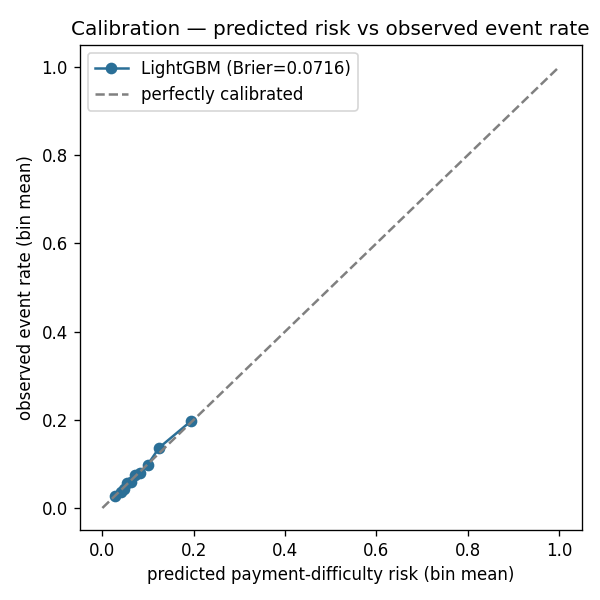
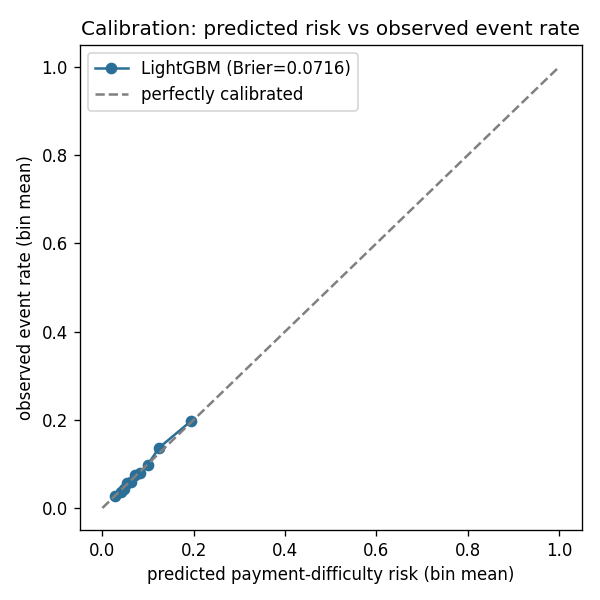
plain-language pass over reports, docs and comments
Replaced em dashes and semicolons with full stops or plain connectives, and
turned the bold-label lists in the challenger, IFRS 9 and monitoring reports
into tables, since they are key-to-value data. Edits to generated reports were
made in their generators, then the reports were rebuilt: challenger and
monitoring from their committed JSON, the rest from their normal entry points.
Every number in every changed report is identical to the previous version, and
all JSON outputs, model artifacts and figures are byte-identical except the
calibration chart, which was redrawn for its new title (Brier still 0.0716).

model_comparison.md is written at the end of training, so its one-sentence
change was applied by hand to avoid retraining, and checked against the
generator's output.

Changed region(s): [[0.12, 0.03, 0.99, 0.06]]

diff --git a/src/validation_report.py b/src/validation_report.py
@@ -59,7 +59,7 @@ def build_validation_report(
     challenger_result = (
         f"Candidate **{nomination}** was nominated for a separate promotion review."
         if nomination
-        else "No candidate passed every predeclared gate; the incumbent remains preferred."
+        else "No candidate passed every predeclared gate, so the incumbent remains preferred."
     )
     rejected = sum(not candidate.get("accepted", False) for candidate in candidates)
     split_rows = metadata.get("split_rows", {})
@@ -84,8 +84,9 @@ def build_validation_report(
         "## 3. Data and split protocol",
         "",
         "The work uses the historical Kaggle Home Credit application dataset with a deterministic "
-        "60/20/20 stratified split (seed 42). Candidate selection uses development-only out-of-fold "
-        "predictions; the frozen test fold is not used to choose or promote a challenger.",
+        "60/20/20 stratified split (seed 42). Candidate selection uses out-of-fold predictions from "
+        "development data only. The frozen test fold is never used to choose or promote a "
+        "challenger.",
         "",
         f"- Train rows: **{split_rows.get('train', 'not recorded')}**",
         f"- Validation rows: **{split_rows.get('validation', 'not recorded')}**",
@@ -105,7 +106,7 @@ def build_validation_report(
         "## 5. Development-only challenger evidence and gate outcome",
         "",
         f"- Data scope: **{data_scope}**",
-        f"- Candidates evaluated: **{len(candidates)}**; rejected: **{rejected}**.",
+        f"- Candidates evaluated: **{len(candidates)}**. Rejected: **{rejected}**.",
         f"- {challenger_result}",
         "",
         "## 6. Fairness diagnostic summary and limits",
@@ -131,8 +132,8 @@ def build_validation_report(
         "## 8. Decision economics and threshold sensitivity limits",
         "",
         f"The illustrative expected-value threshold is {threshold_text}. It is not a lending policy "
-        "or proof of profitability; "
-        "a lender would need local pricing, LGD, capital, collections, and policy constraints.",
+        "or proof of profitability. "
+        "A lender would need local pricing, LGD, capital, collections, and policy constraints.",
         "The fixed operating points below are descriptive and were not used to reselect the "
         "deployed threshold.",
         "",
@@ -151,15 +152,15 @@ def build_validation_report(
         "| control | status | evidence or limitation |",
         "|---|---|---|",
         "| Reproducibility | met | Deterministic split, seed, versioned bundle, and generated reports. |",
-        "| Discrimination | partially met | Historical test-fold intervals are published; no out-of-time evidence. |",
+        "| Discrimination | partially met | Historical test-fold intervals are published. No out-of-time evidence. |",
         "| Calibration | partially met | Historical Brier and calibration diagnostics are published. |",
         "| Public input contract | met | The served 15-field schema is versioned and tested. |",
         "| Explanations | partially met | Local SHAP explanations are diagnostic, not causal adverse-action reasons. |",
-        "| Fairness diagnostics | partially met | Offline group diagnostics exist; no legal or local assessment. |",
-        "| Monitoring design | partially met | Aggregate reference and simulations exist; no live feed. |",
+        "| Fairness diagnostics | partially met | Offline group diagnostics exist. No legal or local assessment. |",
+        "| Monitoring design | partially met | Aggregate reference and simulations exist. No live feed. |",
         "| Local data | not met | No lender-specific development or outcome data. |",
         "| Out-of-time evidence | not met | No temporal holdout or portfolio performance study. |",
-        "| Independent validation | not met | This solo-project report is not an independent validation. |",
+        "| Independent validation | not met | Not performed. |",
         "",
         "## 11. Required production controls not demonstrated here",
         "",

diff --git a/src/train_lgbm.py b/src/train_lgbm.py
@@ -2,12 +2,12 @@
 
 Two credit-industry metrics show up alongside AUC because that's what a risk team will actually
 ask for:
-- Gini = 2*AUC - 1. Same ranking information as AUC, rescaled to [-1, 1] with 0 = random —
-  it's the number that ends up in a model-risk committee slide, so it's reported here too.
+- Gini = 2*AUC - 1. Same ranking information as AUC, rescaled to [-1, 1] with 0 = random.
+  It's the number that ends up on a model-risk committee slide, so it's reported here too.
 - KS (Kolmogorov-Smirnov) statistic = the maximum gap between the cumulative distribution of
   scores for defaulters vs non-defaulters. Answers "at the best possible cutoff, how well does
-  this model separate the two classes?" — a single number a credit committee can compare against
-  their existing scorecard's KS without knowing what AUC means.
+  this model separate the two classes?" A credit committee can compare it against their existing
+  scorecard's KS without knowing what AUC means.
 """
 
 import argparse
@@ -43,7 +43,7 @@ PARAM_GRID = [
     {"learning_rate": 0.10, "num_leaves": 31},
 ]
 CV_N_ESTIMATORS = (
-    300  # fixed and modest during the CV sweep — early stopping picks the real count later
+    300  # fixed and modest during the CV sweep; early stopping picks the real count later
 )
 CV_FOLDS = 5
 
@@ -203,8 +203,8 @@ def write_comparison(
         "# Public-demo logistic baseline vs LightGBM",
         "",
         "Both models use the same 15-field public-demo contract and the same untouched test "
-        "fold. LightGBM parameters come from 5-fold CV on the training fold; early stopping on "
-        f"the validation fold selected {best_iteration} trees for `{best_params}`. The final "
+        "fold. LightGBM parameters come from 5-fold cross-validation on the training fold. Early "
+        f"stopping on the validation fold then selected {best_iteration} trees for `{best_params}`. The final "
         "LightGBM model and logistic baseline were then each fitted on the combined train and "
         "validation folds before this test evaluation.",
         "",
@@ -262,7 +262,7 @@ def main() -> None:
     test_metrics = score_model(test[TARGET_COL], model.predict_proba(test_X)[:, 1])
     print(f"LightGBM untouched test: {test_metrics}")
 
-    # Persist the exact category boundaries LightGBM was trained on — encoding a category column
+    # Persist the exact category boundaries LightGBM was trained on. Encoding a category column
     # against a *different* set of categories at inference time silently shifts every code and
     # produces wrong predictions with no error, so inference must reuse these dtypes exactly.
     bundle_dir = model_bundle_dir(profile.value)

diff --git a/src/challenger_validation.py b/src/challenger_validation.py
@@ -272,29 +272,31 @@ def render_report(result: dict) -> str:
             f"{metrics['brier']:.4f} | {metrics['log_loss']:.4f} | {candidate['gate']} | "
             f"{'pass' if candidate['accepted'] else 'fail'} |"
         )
-    lines += ["", "## Predeclared gate results", ""]
+    lines += ["", "## Predeclared gate results", "", "| candidate | result |", "|---|---|"]
     for candidate in result["candidates"]:
         message = (
             "Passed every applicable gate."
             if candidate["accepted"]
-            else "; ".join(candidate["reasons"])
+            else ". ".join(candidate["reasons"]) + "."
         )
-        lines.append(f"- **{candidate['name']}:** {message}")
+        lines.append(f"| {candidate['name']} | {message} |")
     lines += ["", "## Outcome", ""]
     if result["nomination"] is None:
-        lines.append("No candidate passed every predeclared gate; the incumbent remains preferred.")
+        lines.append(
+            "No candidate passed every predeclared gate, so the incumbent remains preferred."
+        )
     else:
         lines.append(
-            f"`{result['nomination']}` is nominated for a separate promotion review; it is not deployed by this study."
+            f"`{result['nomination']}` is nominated for a separate promotion review. This study does not deploy it."
         )
     lines += [
         "",
-        "The study uses stratified m-out-of-n paired bootstrap samples for candidate gate intervals; "
-        "the full development sample is still used for each point estimate. The study is not nested "
-        "cross-validation: the incumbent's frozen parameters and tree count "
-        "come from the prior v1.2 development process. The OOF protocol prevents an estimator or "
-        "calibrator from scoring a row it fitted, but this report is still development evidence rather "
-        "than an independent validation.",
+        "Candidate gate intervals come from stratified m-out-of-n paired bootstrap samples. Each "
+        "point estimate still uses the full development sample. This is not nested "
+        "cross-validation. The incumbent's frozen parameters and tree count come from the earlier "
+        "v1.2 development process. The out-of-fold (OOF) protocol stops an estimator or calibrator "
+        "from scoring a row it was fitted on. Even so, this report is development evidence, not an "
+        "independent validation.",
         "",
     ]
     return "\n".join(lines)

diff --git a/src/eda.py b/src/eda.py
@@ -45,8 +45,8 @@ def plot_missingness_heatmap(missing: pd.DataFrame, out_path, top_n: int = 30) -
 
 
 def plot_key_feature_distributions(df: pd.DataFrame, out_path) -> None:
-    # DAYS_BIRTH / DAYS_EMPLOYED are negative day-counts relative to application date —
-    # flip to positive years so the histograms read naturally.
+    # DAYS_BIRTH / DAYS_EMPLOYED are negative day-counts relative to the application date.
+    # Flip them to positive years so the histograms read naturally.
     plotted = df[KEY_FEATURES].copy()
     plotted["DAYS_BIRTH"] = -plotted["DAYS_BIRTH"] / 365.25
     plotted["DAYS_EMPLOYED"] = plotted["DAYS_EMPLOYED"].replace(365243, pd.NA) / -365.25
@@ -83,8 +83,8 @@ def write_eda_summary(df: pd.DataFrame, missing: pd.DataFrame, corr: pd.Series, 
         "treat the target as a legally defined default. A model that predicts "
         f"'repaid' for every single applicant hits {balance['repaid (0)']:.1%} accuracy while "
         "identifying none of those events. AUC, precision-recall, "
-        "and the KS statistic (computed later against LightGBM) all separate the classes; "
-        "accuracy collapses them.",
+        "and the KS statistic (computed later against LightGBM) all separate the classes. "
+        "Accuracy collapses them.",
         "",
         "## Five findings",
         "",
@@ -105,8 +105,8 @@ def write_eda_summary(df: pd.DataFrame, missing: pd.DataFrame, corr: pd.Series, 
         "public-demo model deliberately excludes them because an applicant cannot supply them.",
         "",
         "4. **Income and credit amount are heavily right-skewed.** A handful of applicants report "
-        "incomes in the tens of millions; the histograms clip at the 99th percentile so the bulk "
-        "of the distribution is visible at all. The tree model uses the raw values; the logistic "
+        "incomes in the tens of millions. The histograms clip at the 99th percentile so most of "
+        "the distribution can be seen. The tree model uses the raw values. The logistic "
         "baseline standardises its numeric inputs.",
         "",
         f"5. **`DAYS_BIRTH` correlates {corr.get('DAYS_BIRTH', 0):.3f} with `TARGET`.** Younger "

diff --git a/tests/test_api.py b/tests/test_api.py
@@ -10,13 +10,13 @@ from api.schemas import ApplicantRequest
 from api.scoring import applicant_to_row, load_artifacts
 from src.config import model_bundle_dir
 
-# These are integration tests against the real trained model, not unit tests — they need
+# These are integration tests against the real trained model, not unit tests. They need
 # artifacts produced by `python -m src.train_lgbm`, which needs the Kaggle dataset. Neither is
 # available in a fresh CI checkout (the dataset can't be committed under Kaggle's terms), so skip
 # cleanly there instead of failing on a FileNotFoundError that has nothing to do with the code.
 pytestmark = pytest.mark.skipif(
     not model_bundle_dir("public_demo").exists(),
-    reason="requires the public-demo model bundle — run `python -m src.train_lgbm --profile public_demo`",
+    reason="requires the public-demo model bundle: run `python -m src.train_lgbm --profile public_demo`",
 )
 
 VALID_APPLICANT = {
@@ -120,8 +120,8 @@ def test_predict_decision_matches_threshold(client: TestClient) -> None:
 
 
 def test_predict_riskier_profile_scores_higher_pd(client: TestClient) -> None:
-    """Young, no employment history, large loan relative to income vs an established applicant —
-    the riskier profile should score a higher PD. A real behavioural check, not just a shape check."""
+    """Young, no employment history, large loan relative to income, against an established
+    applicant. The riskier profile should score a higher PD. A real behavioural check, not just a shape check."""
     safe_applicant = {
         **VALID_APPLICANT,
         "age_years": 45,
@@ -199,7 +199,7 @@ def test_predict_rejects_age_below_lower_boundary(client: TestClient) -> None:
 
 
 def test_predict_rejects_zero_income(client: TestClient) -> None:
-    """income_total uses gt=0, not ge=0 — a loan applicant reporting zero income is a data-entry
+    """income_total uses gt=0, not ge=0. A loan applicant reporting zero income is a data-entry
     error, not a valid (if unusual) applicant, and should be caught before it reaches the model."""
     applicant = {**VALID_APPLICANT, "income_total": 0}
     response = client.post("/predict", json=applicant)

diff --git a/app/dashboard.py b/app/dashboard.py
@@ -1,8 +1,8 @@
 """Streamlit decision dashboard: fill in an applicant, get a scored decision with an explanation.
 
 Calls the FastAPI service first (configurable via the API_URL env var). If the API is unreachable
-— not running, still starting up, whatever — it falls back to scoring directly against the saved
-model artifacts via api.scoring, so the dashboard still works standalone.
+(not running, or still waking from a cold start), it scores directly against the saved model
+artifacts via api.scoring instead, so the dashboard still works on its own.
 """
 
 import os
@@ -183,7 +183,9 @@ if submitted:
         st.success(f"Scored via live API ({API_URL})")
         result = api_result
     else:
-        st.info("API unreachable — scoring directly against the saved model artifacts instead.")
+        st.info(
+            "The API is unreachable, so the dashboard is scoring directly against the saved model artifacts instead."
+        )
         result = score_locally(req)
 
     pd_estimate = result["probability_of_default"]
@@ -207,11 +209,11 @@ if submitted:
 
         if decision == "approve":
             st.success(
-                f"**APPROVE** — risk {pd_estimate:.1%} is below the {result['decision_threshold']:.0%} cutoff"
+                f"**APPROVE**: risk {pd_estimate:.1%} is below the {result['decision_threshold']:.0%} cutoff"
             )
         else:
             st.error(
-                f"**DECLINE** — risk {pd_estimate:.1%} is at or above the {result['decision_threshold']:.0%} cutoff"
+                f"**DECLINE**: risk {pd_estimate:.1%} is at or above the {result['decision_threshold']:.0%} cutoff"
             )
 
         st.metric(
@@ -251,5 +253,5 @@ if submitted:
             plt.close(fig)
         except FileNotFoundError:
             st.caption(
-                "Local model artifacts unavailable — waterfall plot needs `python -m src.train_lgbm` run once."
+                "Local model artifacts unavailable. The waterfall plot needs `python -m src.train_lgbm` run once."
             )

diff --git a/src/ecl.py b/src/ecl.py
@@ -135,11 +135,13 @@ def write_ifrs9_summary(examples: pd.DataFrame, out_path: Path) -> None:
         "",
         "## Stage rules used in this demonstration",
         "",
-        "- **Stage 1:** 12-month ECL when there is no significant increase in credit risk (SICR).",
-        "- **Stage 2:** lifetime ECL when days past due are at least 30, or current PD is at least "
-        "double origination PD and at least 5%.",
-        "- **Stage 3:** credit-impaired when days past due are at least 90 or the account is flagged "
-        "credit-impaired.",
+        "| stage | rule |",
+        "|---|---|",
+        "| 1 | 12-month ECL when there is no significant increase in credit risk (SICR). |",
+        "| 2 | Lifetime ECL when days past due are at least 30, or current PD is at least double "
+        "origination PD and at least 5%. |",
+        "| 3 | Credit-impaired when days past due are at least 90 or the account is flagged "
+        "credit-impaired. |",
         "",
         "## Scenario-weighted discounted examples",
         "",
@@ -200,7 +202,7 @@ def write_ifrs9_summary(examples: pd.DataFrame, out_path: Path) -> None:
         "For Stages 1 and 2, annual PD is converted to a constant monthly hazard. Each month's "
         "loss uses the probability that the account has survived to that month and defaults during "
         "that month, multiplied by LGD and EAD, then discounted at the effective interest rate. "
-        "Stage 1 includes defaults arising in the next 12 months; Stage 2 runs over the remaining "
+        "Stage 1 includes defaults arising in the next 12 months. Stage 2 runs over the remaining "
         "term. The result is "
         "weighted across the stated upside, base, and downside scenarios (20% / 60% / 20%).",
         "Because the example has no contractual cash-flow schedule, it recognises the assumed "

diff --git a/src/public_demo_audit.py b/src/public_demo_audit.py
@@ -68,8 +68,8 @@ def write_fairness_audit(
         "# Fairness audit: public-demo risk model",
         "",
         "This audit evaluates the 15-field public-demo LightGBM model on its untouched Home "
-        "Credit test fold. `CODE_GENDER` is retained only for this offline diagnostic; it is not "
-        "a model feature and the API does not accept it. The illustrative decision threshold is "
+        "Credit test fold. `CODE_GENDER` is retained only for this offline diagnostic. It is not "
+        "a model feature, and the API does not accept it. The illustrative decision threshold is "
         f"{threshold:.6f}: applications below it are approved.",
         "",
         "## Gender groups",
@@ -129,8 +129,8 @@ def write_threshold_analysis(
         f"- Observed event rate among declined applications: **{metrics.precision:.2%}**",
         f"- Confusion matrix (actual default positive): TP {metrics.true_positives:,}, FP "
         f"{metrics.false_positives:,}, TN {metrics.true_negatives:,}, FN {metrics.false_negatives:,}.",
-        f"- Calibration intercept: **{calibration_intercept:.4f}**; calibration slope: "
-        f"**{calibration_slope:.4f}**.",
+        f"- Calibration intercept: **{calibration_intercept:.4f}**",
+        f"- Calibration slope: **{calibration_slope:.4f}**",
         "",
         "## Fixed-threshold sensitivity",
         "",
@@ -148,7 +148,7 @@ def write_threshold_analysis(
         "## Test-fold model uncertainty",
         "",
         "Intervals are 95% stratified bootstrap intervals from the untouched historical test "
-        "fold; they quantify sampling uncertainty, not future portfolio performance.",
+        "fold. They measure sampling uncertainty, not future portfolio performance.",
         "",
         "| metric | estimate | 95% stratified bootstrap interval |",
         "|---|---:|---:|",

diff --git a/src/data_loader.py b/src/data_loader.py
@@ -10,7 +10,7 @@ from src.config import RAW_TRAIN_PATH, REPORTS_DIR, TARGET_COL
 def load_application_data(path: Path = RAW_TRAIN_PATH) -> pd.DataFrame:
     if not path.exists():
         raise FileNotFoundError(
-            f"{path} not found — download application_train.csv from the Kaggle "
+            f"{path} not found. To fix this, download application_train.csv from the Kaggle "
             "Home Credit Default Risk competition and place it in data/."
         )
     return pd.read_csv(path)
@@ -34,7 +34,7 @@ def write_data_dictionary(df: pd.DataFrame, missing: pd.DataFrame, out_path: Pat
     lines = [
         "# Data dictionary: application_train.csv",
         "",
-        f"{df.shape[0]:,} rows, {df.shape[1]} columns. One row is one loan application; "
+        f"{df.shape[0]:,} rows, {df.shape[1]} columns. One row is one loan application. "
         f"`{TARGET_COL}` is 1 when the competition marks an applicant as having payment "
         "difficulty, 0 otherwise. Home Credit intentionally withholds the exact delinquency-day "
         "threshold in the public data, so this project does not invent one.",

diff --git a/src/explain.py b/src/explain.py
@@ -59,7 +59,7 @@ def validate_shap_additivity(model, X: pd.DataFrame, explanation: shap.Explanati
 
 
 def save_current_shap_plot(out_path) -> None:
-    """Call right after a shap.plots.* call — each one draws on the current pyplot figure, so
+    """Call right after a shap.plots.* call. Each one draws on the current pyplot figure, so
     starting a fresh figure before every plot (not just once) keeps them from overlaying."""
     fig = plt.gcf()
     fig.tight_layout()
@@ -92,7 +92,7 @@ def plot_calibration_curve(calibration: dict, out_path) -> None:
     ax.plot([0, 1], [0, 1], linestyle="--", color="gray", label="perfectly calibrated")
     ax.set_xlabel("predicted payment-difficulty risk (bin mean)")
     ax.set_ylabel("observed event rate (bin mean)")
-    ax.set_title("Calibration — predicted risk vs observed event rate")
+    ax.set_title("Calibration: predicted risk vs observed event rate")
     ax.legend()
     fig.tight_layout()
     fig.savefig(out_path, dpi=120)

diff --git a/api/main.py b/api/main.py
@@ -80,7 +80,7 @@ async def log_request_metadata(request: Request, call_next):
 
 @app.exception_handler(RequestValidationError)
 async def clear_validation_errors(request: Request, exc: RequestValidationError) -> JSONResponse:
-    """FastAPI's default 422 body nests each error under loc/msg/type/ctx/url — accurate, but a
+    """FastAPI's default 422 body nests each error under loc/msg/type/ctx/url. That is accurate, but a
     caller has to reconstruct the field name from a list. Flatten it to 'field: message' instead."""
     errors = [f"{'.'.join(str(p) for p in err['loc'][1:])}: {err['msg']}" for err in exc.errors()]
     return JSONResponse(status_code=422, content={"detail": errors})

diff --git a/src/preprocessing.py b/src/preprocessing.py
@@ -1,7 +1,7 @@
 """Leakage-safe split and imputation.
 
 Split before imputing, always. If you impute first and split second, the median/mode used to
-fill a training row was computed partly from validation and test rows — the model has seen a
+fill a training row was computed partly from validation and test rows. The model has then seen a
 statistic derived from data it's supposed to be evaluated against. Splitting first and fitting
 the imputer on the training fold only keeps validation and test genuinely unseen.
 """
